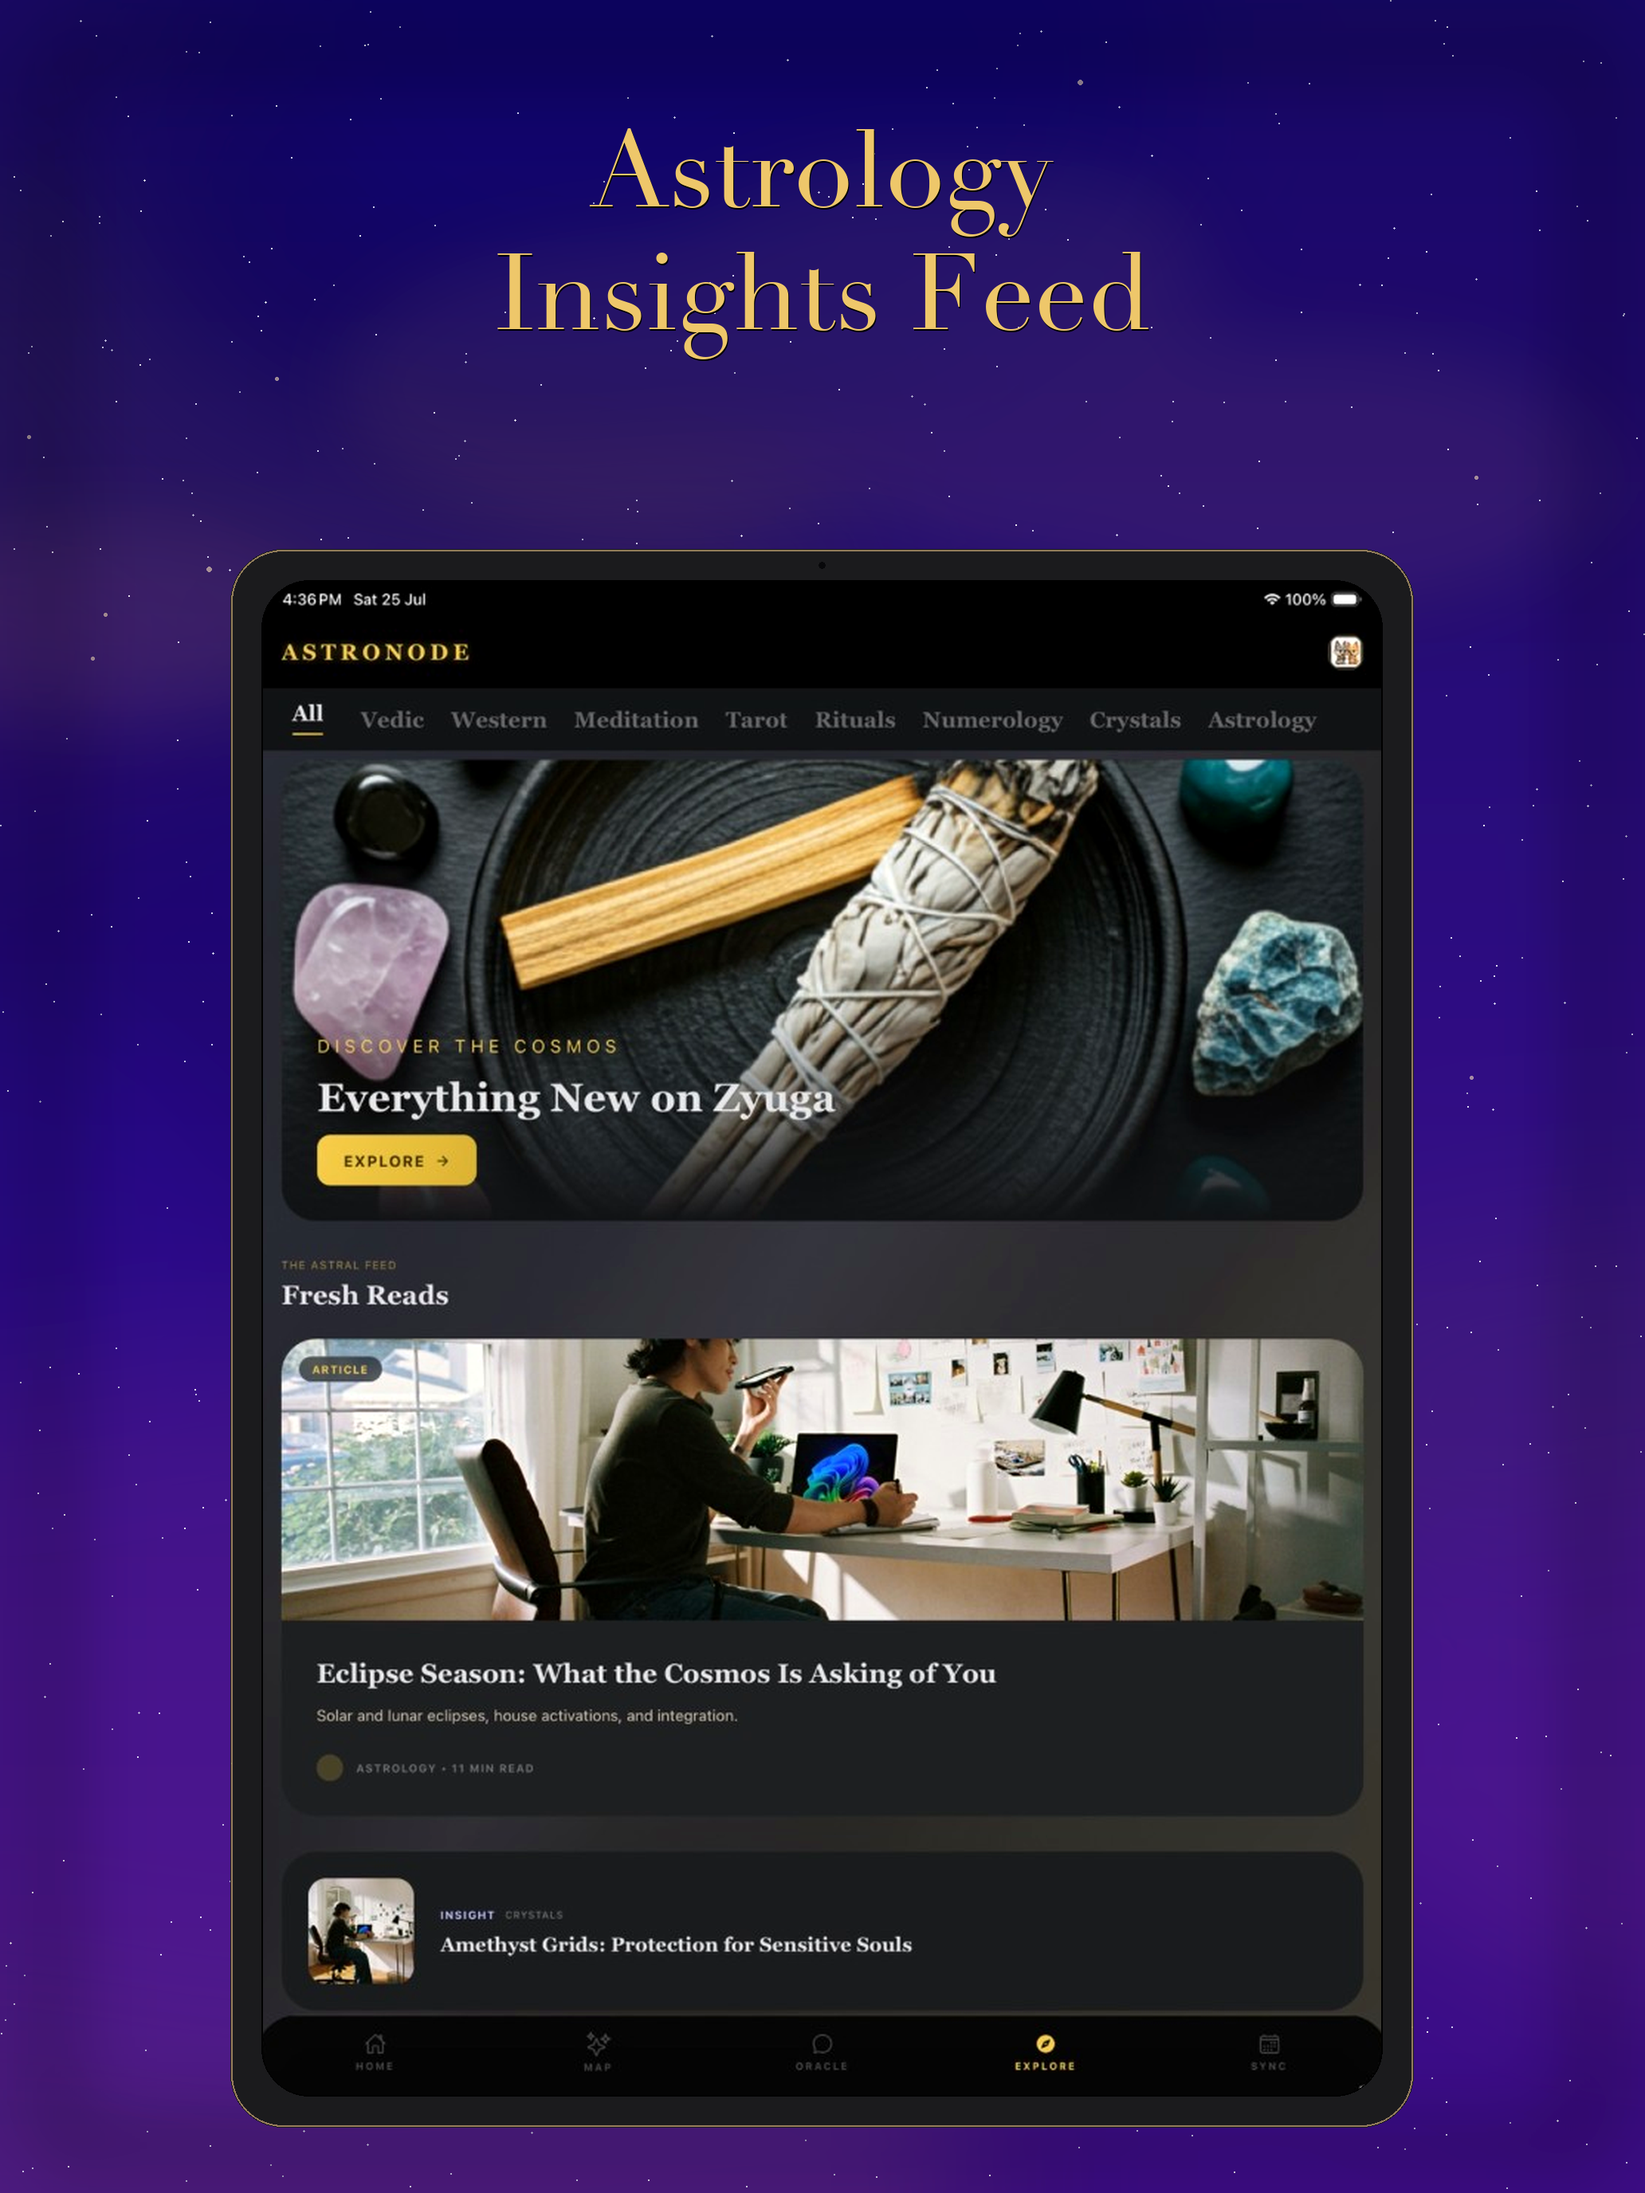
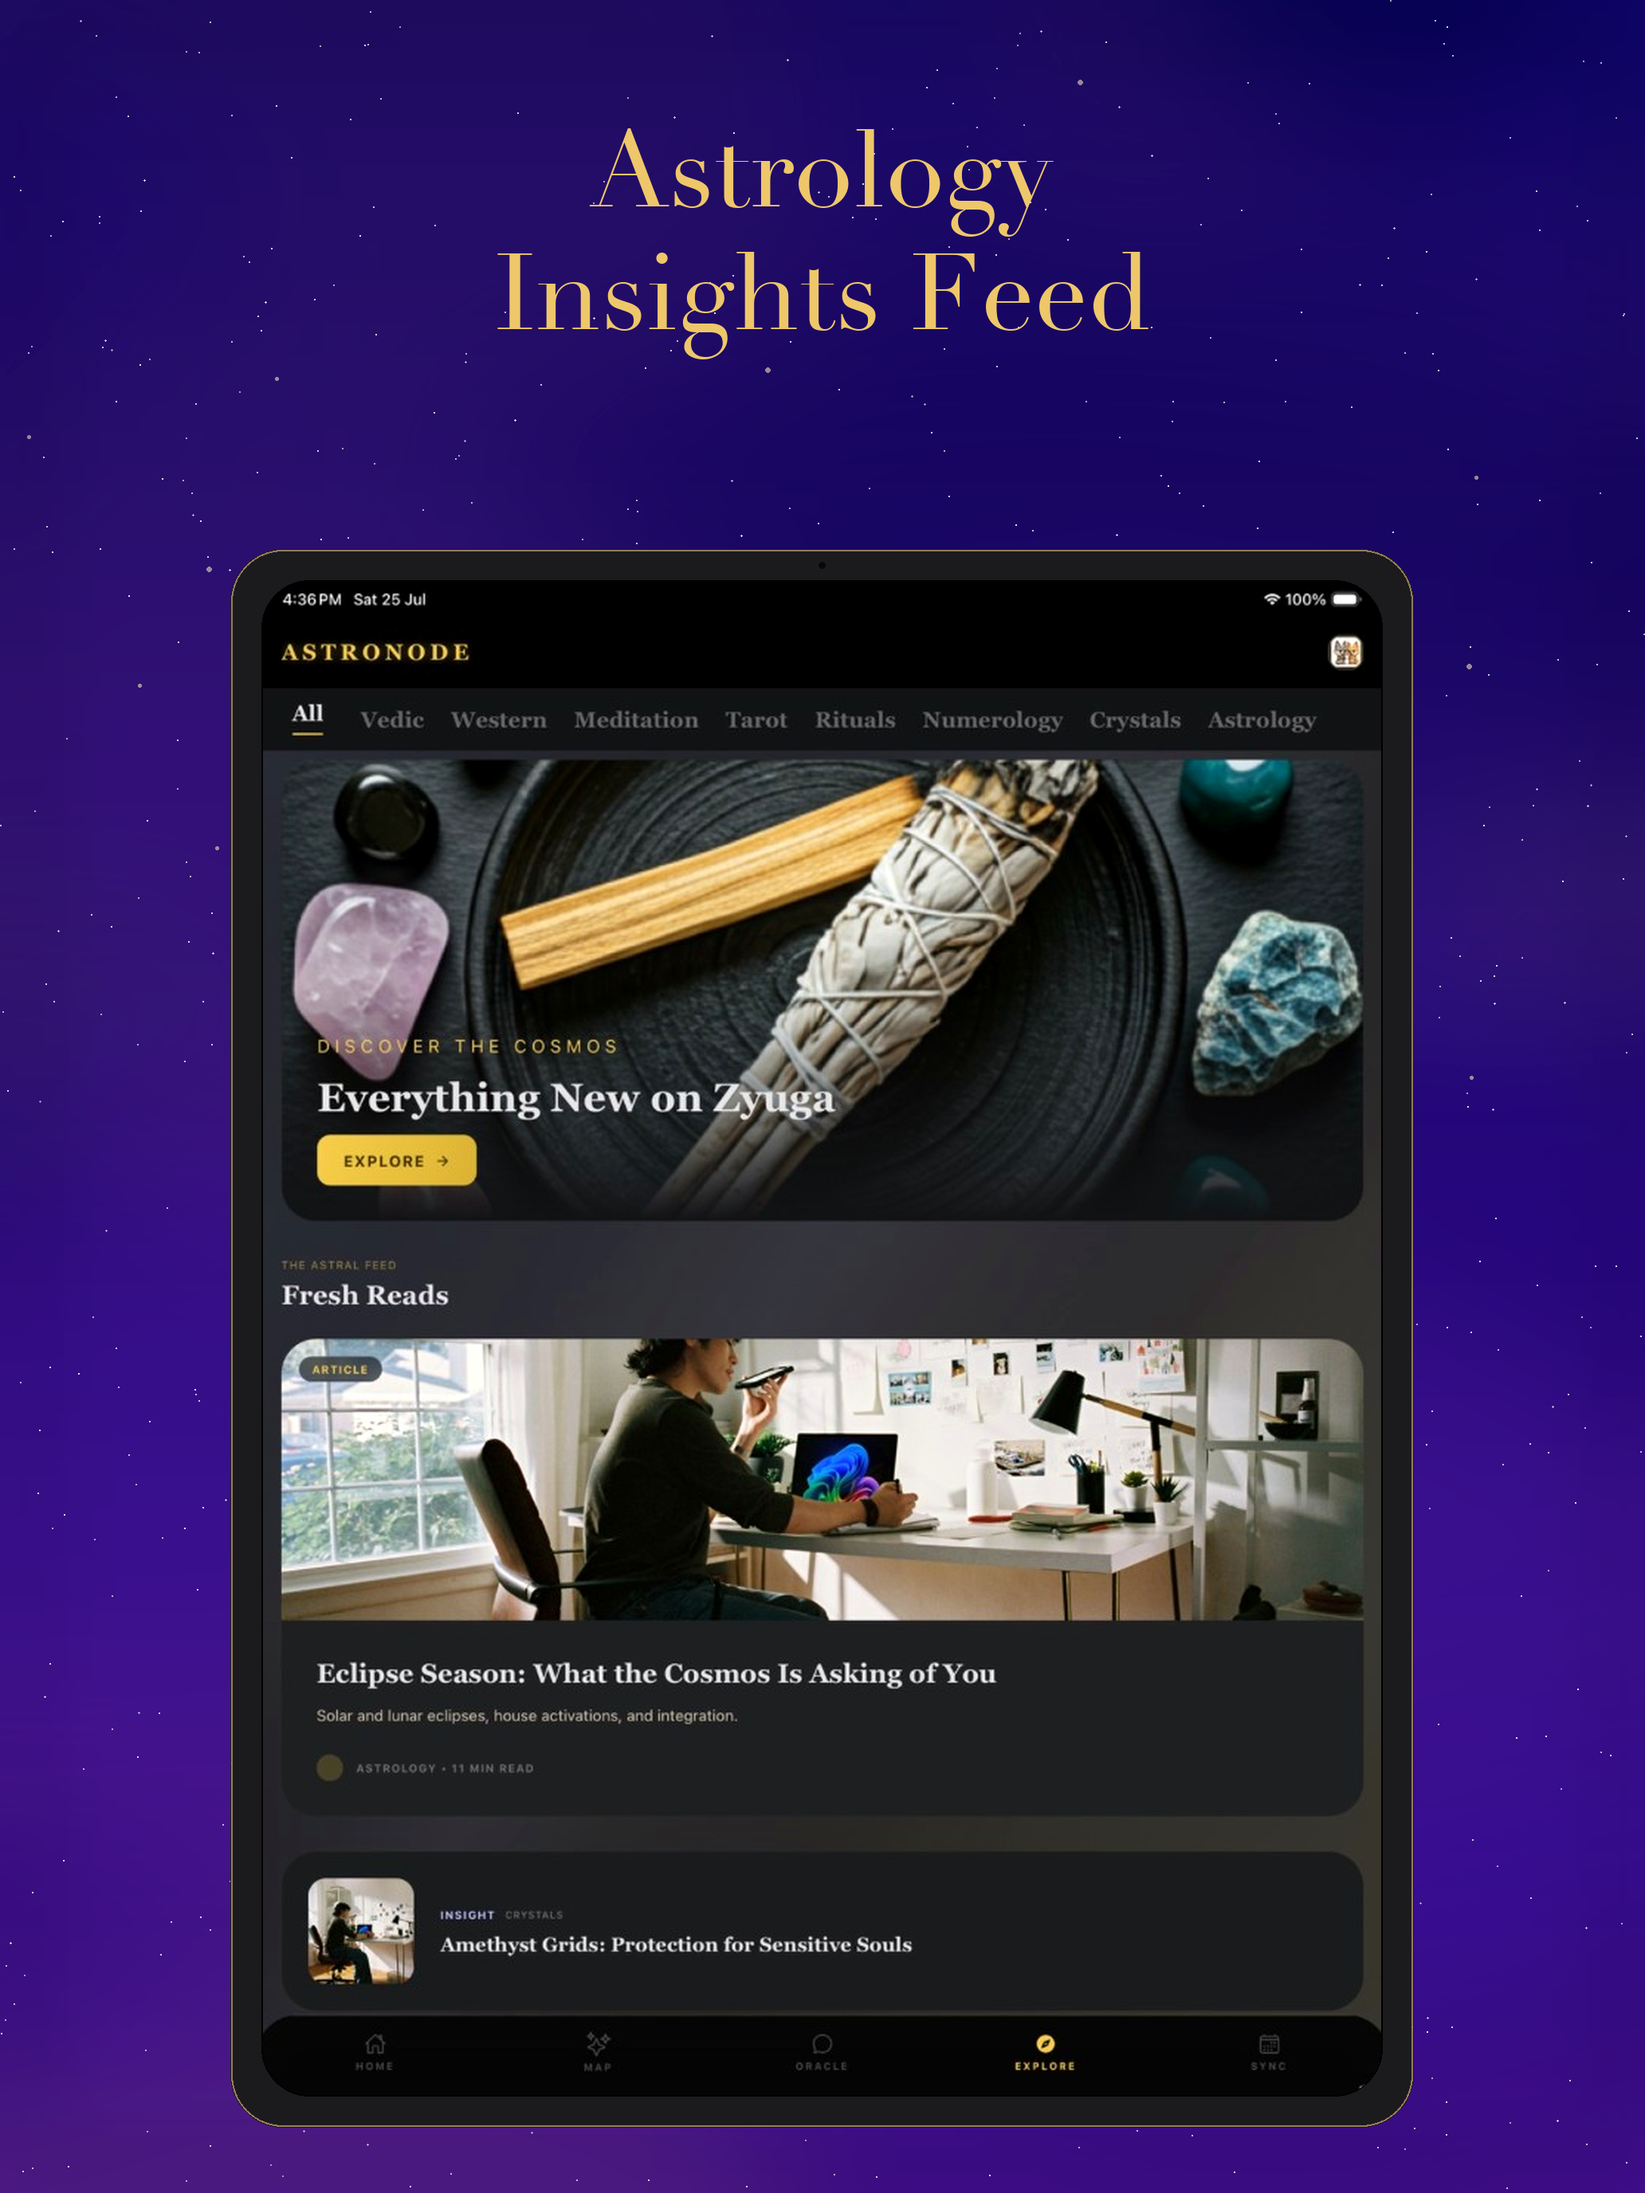
Sync clean Astronode production listings without background ghosts.

Changed region(s): [[0.5581, 0.1562, 0.9302, 0.25]]

diff --git a/astronode/scripts/generate_sophisticated_listings.py b/astronode/scripts/generate_sophisticated_listings.py
@@ -166,36 +166,29 @@ def clean_nebula(size: tuple[int, int], seed: int, palette_idx: int) -> Image.Im
 
     overlay = Image.new("RGBA", (w, h), (0, 0, 0, 0))
     od = ImageDraw.Draw(overlay)
-    # Organic nebula clouds — ellipses only, never rectangles/device shapes
-    for _ in range(22):
-        cx = rng.randint(-w // 5, w + w // 5)
+    # Organic nebula clouds — soft ellipses only, keep them irregular / off-center
+    for _ in range(28):
+        cx = rng.randint(-w // 4, w + w // 4)
         cy = rng.randint(0, h)
-        rx = rng.randint(int(w * 0.18), int(w * 0.55))
-        ry = rng.randint(int(h * 0.08), int(h * 0.22))
+        rx = rng.randint(int(w * 0.12), int(w * 0.42))
+        ry = rng.randint(int(h * 0.05), int(h * 0.14))
+        # Avoid a single centered blob that can look like a device card
+        if abs(cx - w / 2) < w * 0.12 and abs(cy - h * 0.25) < h * 0.12:
+            cx += rng.choice([-1, 1]) * int(w * 0.2)
         color = rng.choice(
             [
-                (*mid, 50),
-                (*mag, 42),
-                (*gold, 28),
-                (mid[0] // 2, mid[1] // 2, mid[2], 55),
-                (40, 20, 80, 60),
+                (*mid, 48),
+                (*mag, 40),
+                (*gold, 24),
+                (mid[0] // 2, mid[1] // 2, mid[2], 52),
+                (40, 20, 80, 58),
             ]
         )
         od.ellipse((cx - rx, cy - ry, cx + rx, cy + ry), fill=color)
     overlay = overlay.filter(ImageFilter.GaussianBlur(max(40, int(min(w, h) * 0.055))))
     canvas = Image.alpha_composite(img.convert("RGBA"), overlay)
 
-    # Extra gold dust ribbon near top (editorial feel, still abstract)
-    ribbon = Image.new("RGBA", (w, h), (0, 0, 0, 0))
-    rd = ImageDraw.Draw(ribbon)
-    for _ in range(6):
-        cx = rng.randint(0, w)
-        cy = rng.randint(int(h * 0.05), int(h * 0.45))
-        r = rng.randint(int(w * 0.1), int(w * 0.35))
-        rd.ellipse((cx - r, cy - r // 2, cx + r, cy + r // 2), fill=(*gold, 22))
-    canvas = Image.alpha_composite(canvas, ribbon.filter(ImageFilter.GaussianBlur(55)))
-
-    # Stars — points only
+    # Stars — points only (no ribbon/panel shapes that can read as a device ghost)
     stars = Image.new("RGBA", (w, h), (0, 0, 0, 0))
     sd = ImageDraw.Draw(stars)
     n = int(520 * (w * h) / (1320 * 2868))
@@ -212,17 +205,17 @@ def clean_nebula(size: tuple[int, int], seed: int, palette_idx: int) -> Image.Im
         sd.ellipse((x - r, y - r, x + r, y + r), fill=(255, 236, 190, 140))
     canvas = Image.alpha_composite(canvas, stars)
 
-    # Soft edge vignette (no hard shapes)
+    # Very light edge vignette only (keep center free of panel-shaped shading)
     vig = Image.new("RGBA", (w, h), (0, 0, 0, 0))
     vd = ImageDraw.Draw(vig)
-    for i in range(90):
-        vd.rectangle((i, i, w - 1 - i, h - 1 - i), outline=(0, 0, 0, int(i * 1.2)))
-    canvas = Image.alpha_composite(canvas, vig.filter(ImageFilter.GaussianBlur(45)))
+    for i in range(60):
+        vd.rectangle((i, i, w - 1 - i, h - 1 - i), outline=(0, 0, 0, int(i * 0.7)))
+    canvas = Image.alpha_composite(canvas, vig.filter(ImageFilter.GaussianBlur(40)))
     return canvas.convert("RGBA")
 
 
 def draw_crisp_headline(canvas: Image.Image, text: str, size: tuple[int, int]) -> None:
-    """Single-layer Didot headline — no blur bloom that reads as double text."""
+    """Single-layer Didot headline — no blur bloom, no offset ghost."""
     w, h = size
     font_size = int(86 * (w / 1320))
     font = load_font(font_size)
@@ -240,8 +233,6 @@ def draw_crisp_headline(canvas: Image.Image, text: str, size: tuple[int, int]) -
     draw = ImageDraw.Draw(canvas)
     for i, line in enumerate(lines):
         x = (w - widths[i]) // 2
-        # Tiny dark shadow for legibility only (1px, not a second glyph)
-        draw.text((x + 1, y + 2), line, font=font, fill=(0, 0, 0, 120))
         draw.text((x, y), line, font=font, fill=GOLD)
         y += heights[i] + gap
 
